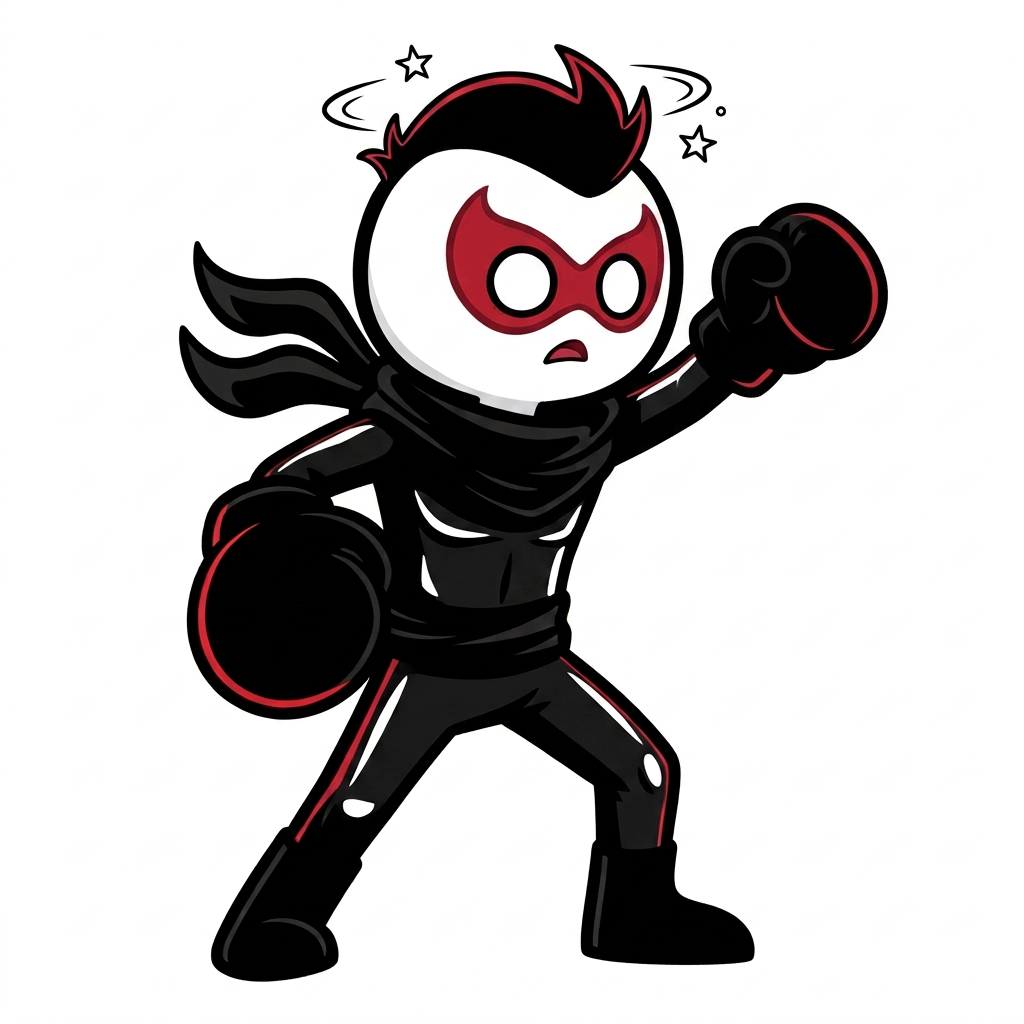
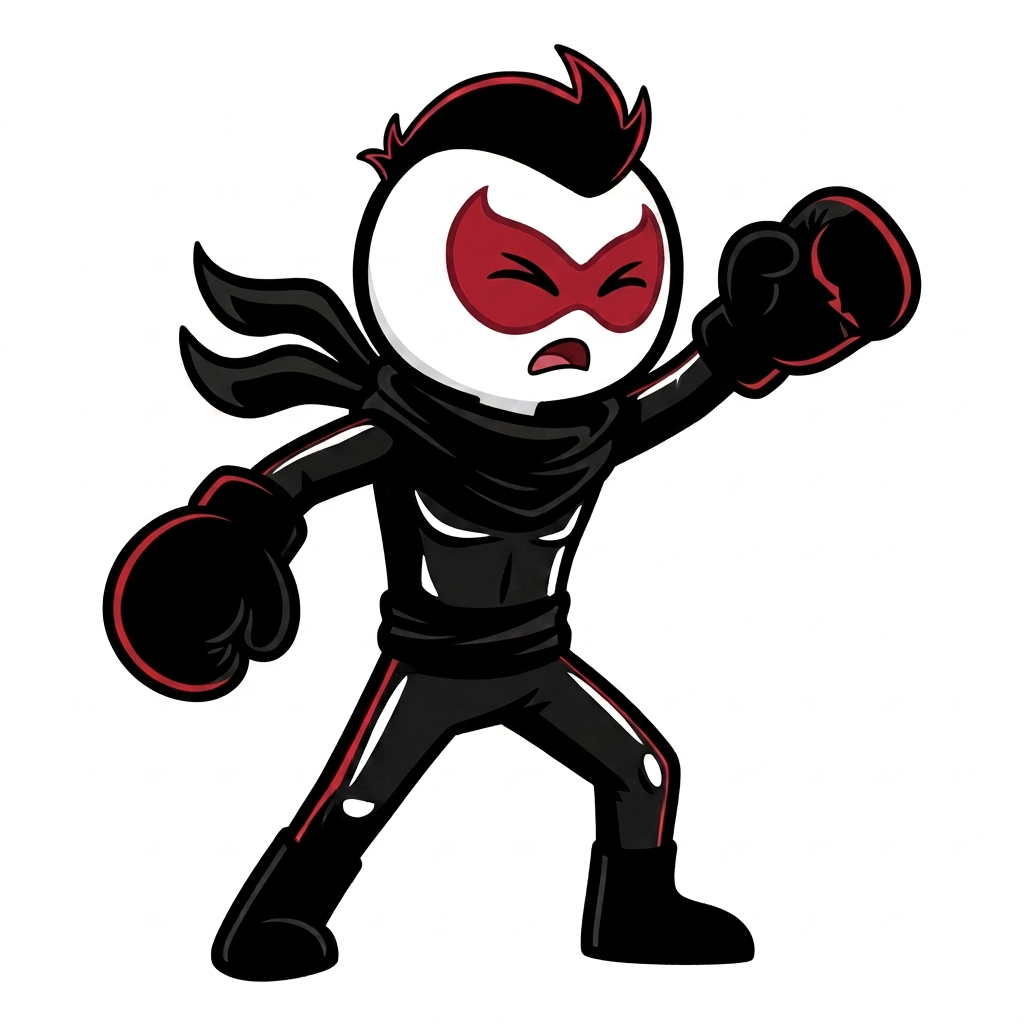
feat(anim): hurt 3→5 for both fighters — in-betweens split the 0/70/150 beats; resync asset manifest

diff --git a/lib/game/ink_fight_battle_game.dart b/lib/game/ink_fight_battle_game.dart
@@ -34,10 +34,12 @@ const List<int> _kLightPunchStepsMs = <int>[30, 30, 30, 70, 65, 60, 65];
 /// `heavyAttack.totalMs`. Frame 003 (contact) holds the 240–330 ms window.
 const List<int> _kHeavyKickStepsMs = <int>[80, 80, 80, 90, 170, 170];
 
-/// §1 hurt (a light punch landed): 000 at 0 ms, 001 at 70 ms, 002 at 150 ms.
-/// The three steps sum to 220 ms = `lightAttack.hitstunMs`, so the cycle ends
-/// exactly as the light stun does.
-const List<int> _kHurtStepsMs = <int>[70, 80, 70];
+/// §1 hurt (a light punch landed). The keyframes keep their beats — recoil 000
+/// at 0 ms, stagger 002 at 70 ms, recovered 004 at 150 ms — and the in-betweens
+/// 001 (recoil building) and 003 (coming back) split the gaps. The five steps
+/// sum to 220 ms = `lightAttack.hitstunMs`, so the cycle ends exactly as the
+/// light stun does; it does not loop, so 004 holds if the stun runs longer.
+const List<int> _kHurtStepsMs = <int>[40, 30, 45, 35, 70];
 
 /// §1 hurt, heavy (a heavy kick landed): the four delivered frames, 420 ms =
 /// `heavyAttack.hitstunMs`. 000 is the impact peak (head snapped back, scarf

diff --git a/test/game_feel_test.dart b/test/game_feel_test.dart
@@ -333,8 +333,17 @@ void main() {
         );
         // ...a jab hands the rival the light hurt cycle, which spans exactly
         // the light hitstun (§1). A heavy kick gets its own cycle, below.
-        expect(rival.animation!.frames, hasLength(3));
+        expect(rival.animation!.frames, hasLength(5));
         expect(totalMsOf(rival), 220);
+        // The in-betweens only split the gaps: the stagger still lands at
+        // 70 ms and the recovered pose at 150 ms, holding to the end.
+        final hurtStarts = <int>[0];
+        for (final f in rival.animation!.frames) {
+          hurtStarts.add(hurtStarts.last + (f.stepTime * 1000).round());
+        }
+        expect(hurtStarts[2], 70);
+        expect(hurtStarts[4], 150);
+        expect(rival.animation!.loop, isFalse);
 
         final clock = game.match.timeRemainingMs;
         final rivalX = game.match.stateOf(FighterId.rival).x;

diff --git a/docs/product/AI_CHARACTER_PROMPT_PACK.md b/docs/product/AI_CHARACTER_PROMPT_PACK.md
@@ -103,11 +103,13 @@ flickered 44 px backwards for one frame.
 - `block_002`: guard absorbing an impact, small black-and-white impact mark beside the guard.
 - `block_003`: guard lowering back toward ready stance.
 
-### Hurt — 3 frames
+### Hurt — 5 frames
 
 - `hurt_000`: small recoil from an incoming hit, face surprised but still recognisable.
-- `hurt_001`: strongest readable stagger, torso leaning away from the hit direction, feet visible.
-- `hurt_002`: recovering toward the ready stance without changing proportions.
+- `hurt_001` (in-between, §5b): the recoil building. The head snaps back, the torso starts tilting away from the hit (toward the left; he still faces right), the front glove starts to fly up and the front heel lifts while both feet stay near the ground. The face is halfway from surprised to pained. No stars, no impact marks.
+- `hurt_002`: strongest readable stagger, torso leaning away from the hit direction, feet visible. The rival's has small dizzy stars; this is the only frame that does.
+- `hurt_003` (in-between, §5b): coming back from the stagger. The torso is halfway back to upright, the lifted foot comes back down, the feet draw back under the body and both arms return toward guard. The face is halfway from pained to determined. No stars.
+- `hurt_004`: recovering toward the ready stance without changing proportions. It holds until the hitstun ends.
 
 ### Knockdown — 5 frames
 
@@ -135,9 +137,9 @@ flickered 44 px backwards for one frame.
 
 ### Hurt heavy — 4 frames (knockback that travels) — `hurt_heavy`
 
-Added after playtesting feedback that a hit does not read as one: the fight has
-a single 3-frame `hurt` cycle for every hit, so a jab and a heavy kick look
-identical and nothing shows the player being *driven backward*. The art bible
+Added after playtesting feedback that a hit does not read as one: the fight had
+a single 3-frame `hurt` cycle for every hit, so a jab and a heavy kick looked
+identical and nothing showed the player being *driven backward*. The art bible
 already reserved this animation under the name `hit_heavy` (online polish set);
 this is it, promoted because the feel needs it now.
 
@@ -202,6 +204,13 @@ a twitch, which is worse than the gap the frame was meant to fill. Measure the
 whole cycle before and after: the largest single-frame jump must not grow by
 more than that same tolerance.
 
+For attack and reaction cycles (punches, kicks, hurt), anchor on the planted
+foot instead of the head. The head measure (the top 22 % of the figure) picks
+up a raised glove or a kicking foot, while the lowest 40 rows are the foot that
+carries the weight. That foot must stay within the same 15 px of the
+neighbours' range, and its largest step must not grow beyond that tolerance.
+The head may travel, because in a kick or a recoil it really does.
+
 What the gate measured on the frames that landed (largest head jump per frame
 step / mean silhouette change, before → after):
 
@@ -210,6 +219,11 @@ step / mean silhouette change, before → after):
 | idle | 13 px / 0.11 → 13 px / 0.09 (seam only) | 43 px / 0.23 → 29 px / 0.18 |
 | walk | 8 px / 0.18 → 8 px / 0.15 | 40 px / 0.25 → 42 px / 0.22 |
 | light punch | 86 px / 0.28 → 52 px / 0.29 | 35 px / 0.25 → 42 px / 0.22 |
+| hurt | 56 px / 0.68 → 72 px / 0.52 ¹ | 14 px / 0.33 → 49 px / 0.26 ¹ |
+
+¹ Here the head measure includes the gloves thrown up by the hit. The planted
+feet stay inside the old frames' spread on every frame; the rival's stay within
+±10 px on all five. So the head number is not body travel.
 
 Rejected, with the measurement: the player's idle 002 → 003 in-between, four
 attempts. Twice the scarf came out longer than in frame 003 (the largest head
@@ -218,6 +232,17 @@ the eyebrows were missing. The rival's version passed only on its third attempt,
 once the prompt fixed the scarf length explicitly ("tips ending level with the
 outer edge of the rear glove"). Fix lengths and directions explicitly like
 that; "halfway" alone is not enough.
+
+A fifth attempt at that frame drew the scarf horizontal as asked, but again
+longer than frame 003 (head jump 13 → 42 px). The player's heavy-kick 001 → 002
+in-between failed twice. The first attempt returned frame 001 unchanged
+(silhouette distance 0.00); name the pose's geometry and say "not a copy of
+either input". The second drew the right pose, but alignment put its planted
+foot 96 px past frame 002's (foot path 299 → 472 → 376 px; the largest step
+grew from 108 to 173 px), a forward-and-back lurch in the wind-up. Both
+failures come from centring on the bounding box rather than on the feet, not
+from the drawing. The heavy-kick recipe is shared by both fighters, so that
+cycle stays at six frames until every one of its in-betweens passes for both.
 
 **Haze.** A generation can leave a faint grey ground smudge under a lifted foot
 (the rival's `walk_002` did). `tool/process_character_assets.py` now clears any

diff --git a/docs/technical/GAME_FEEL.md b/docs/technical/GAME_FEEL.md
@@ -53,8 +53,10 @@ recipes derived from `MatchRules.standard` — no uniform `stepTime`.
 | 005 | recovery | 170 ms | recovery → idle |
 
 Other cycles: **block** (raise 90 ms → loop frames 1–2 at 140 ms while the
-guard is held → release 120 ms) · **hurt** (000 at 0, 001 at 70, 002 at 150,
-then hold the last frame until hitstun ends — 220 ms light, 420 ms heavy) ·
+guard is held → release 120 ms) · **hurt** (5 frames: recoil 000 at 0,
+in-between 001 at 40, stagger 002 at 70, in-between 003 at 115, recovered 004
+at 150 = [40, 30, 45, 35, 70] — the in-betweens only split the old 0/70/150
+beats — then hold the last frame until hitstun ends — 220 ms light, 420 ms heavy) ·
 **jump** (takeoff 100, rise 150, apex 150, fall 160, landing 140 = 700 ms =
 `jumpMs`) · **walk** (see §6; 8 frames since the in-betweens) · **idle** (one
 560 ms breath — the old 4 × 140 ms — spread evenly over however many frames are
